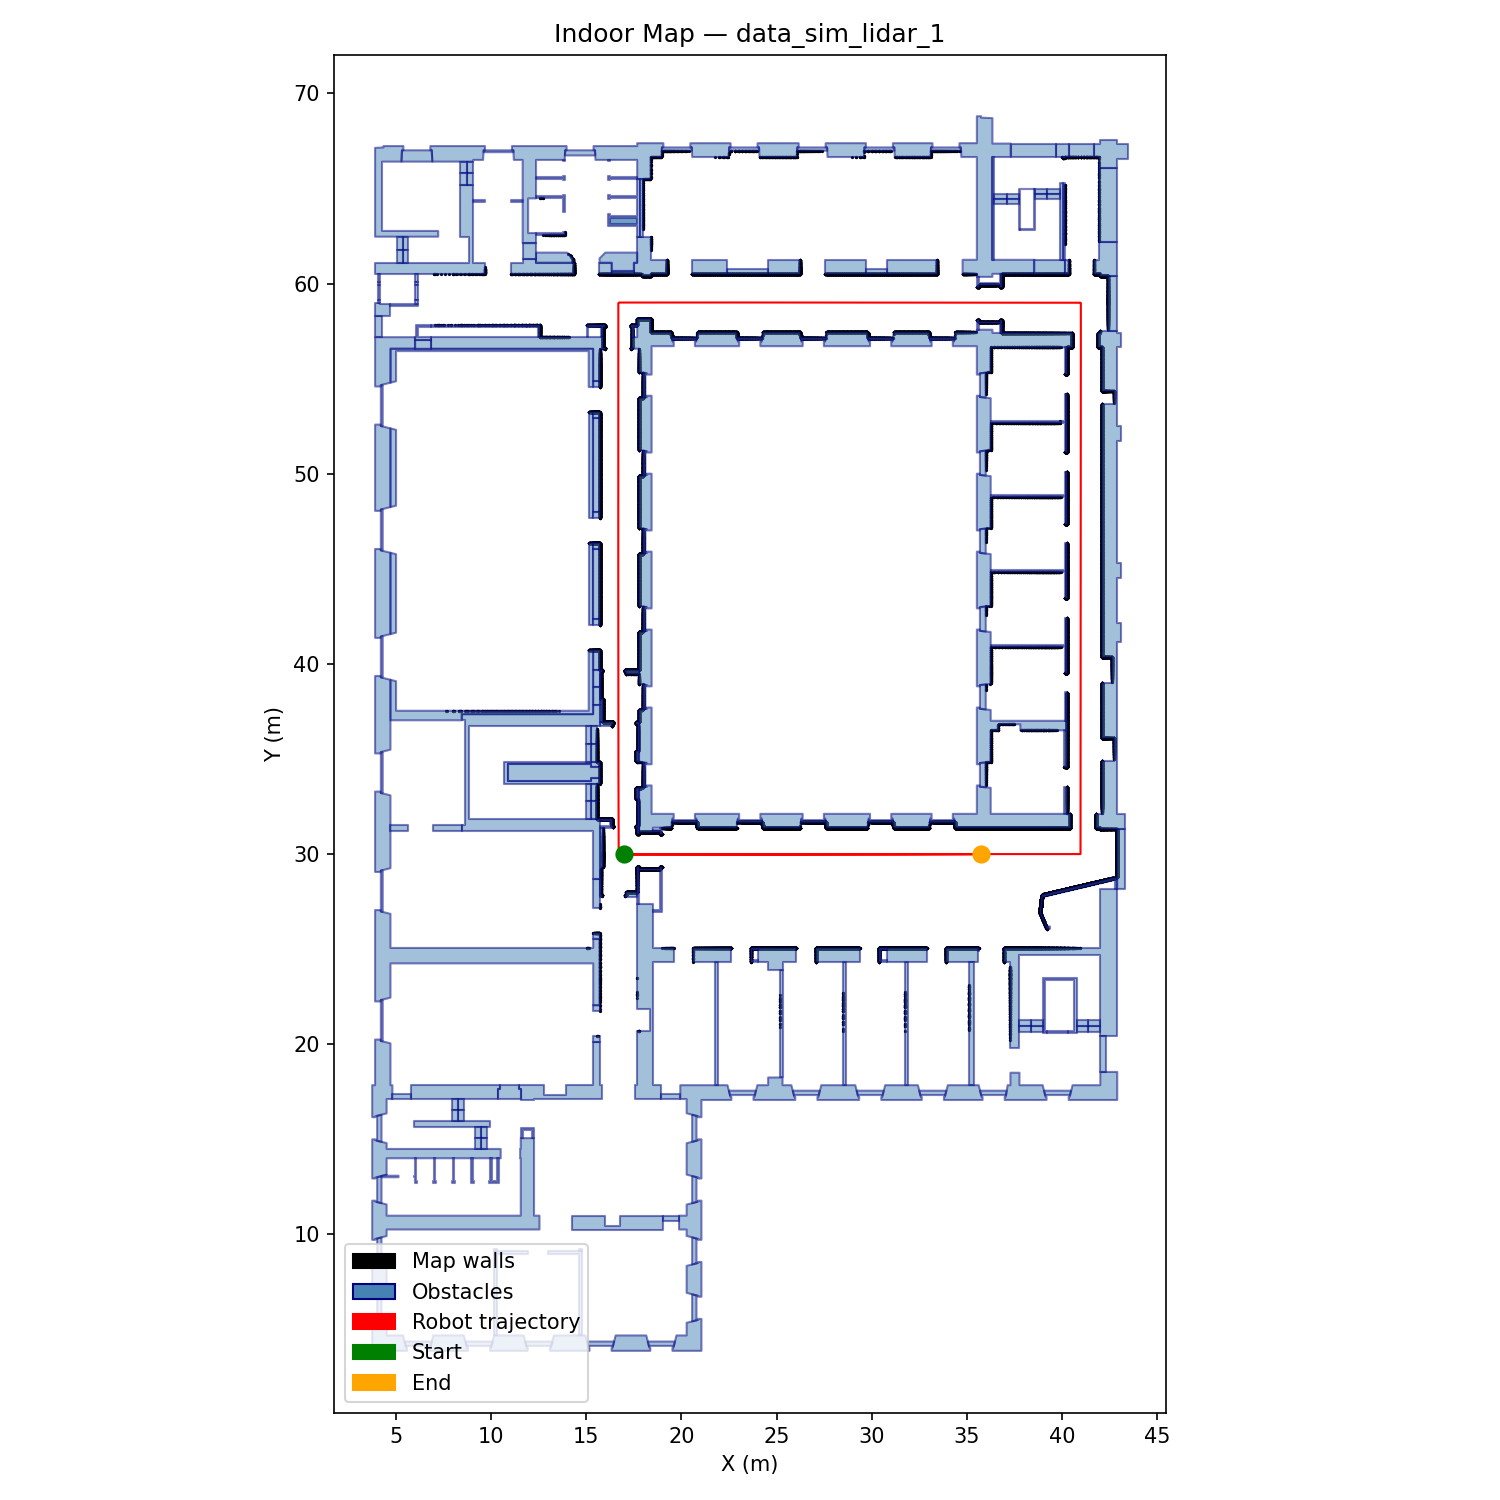
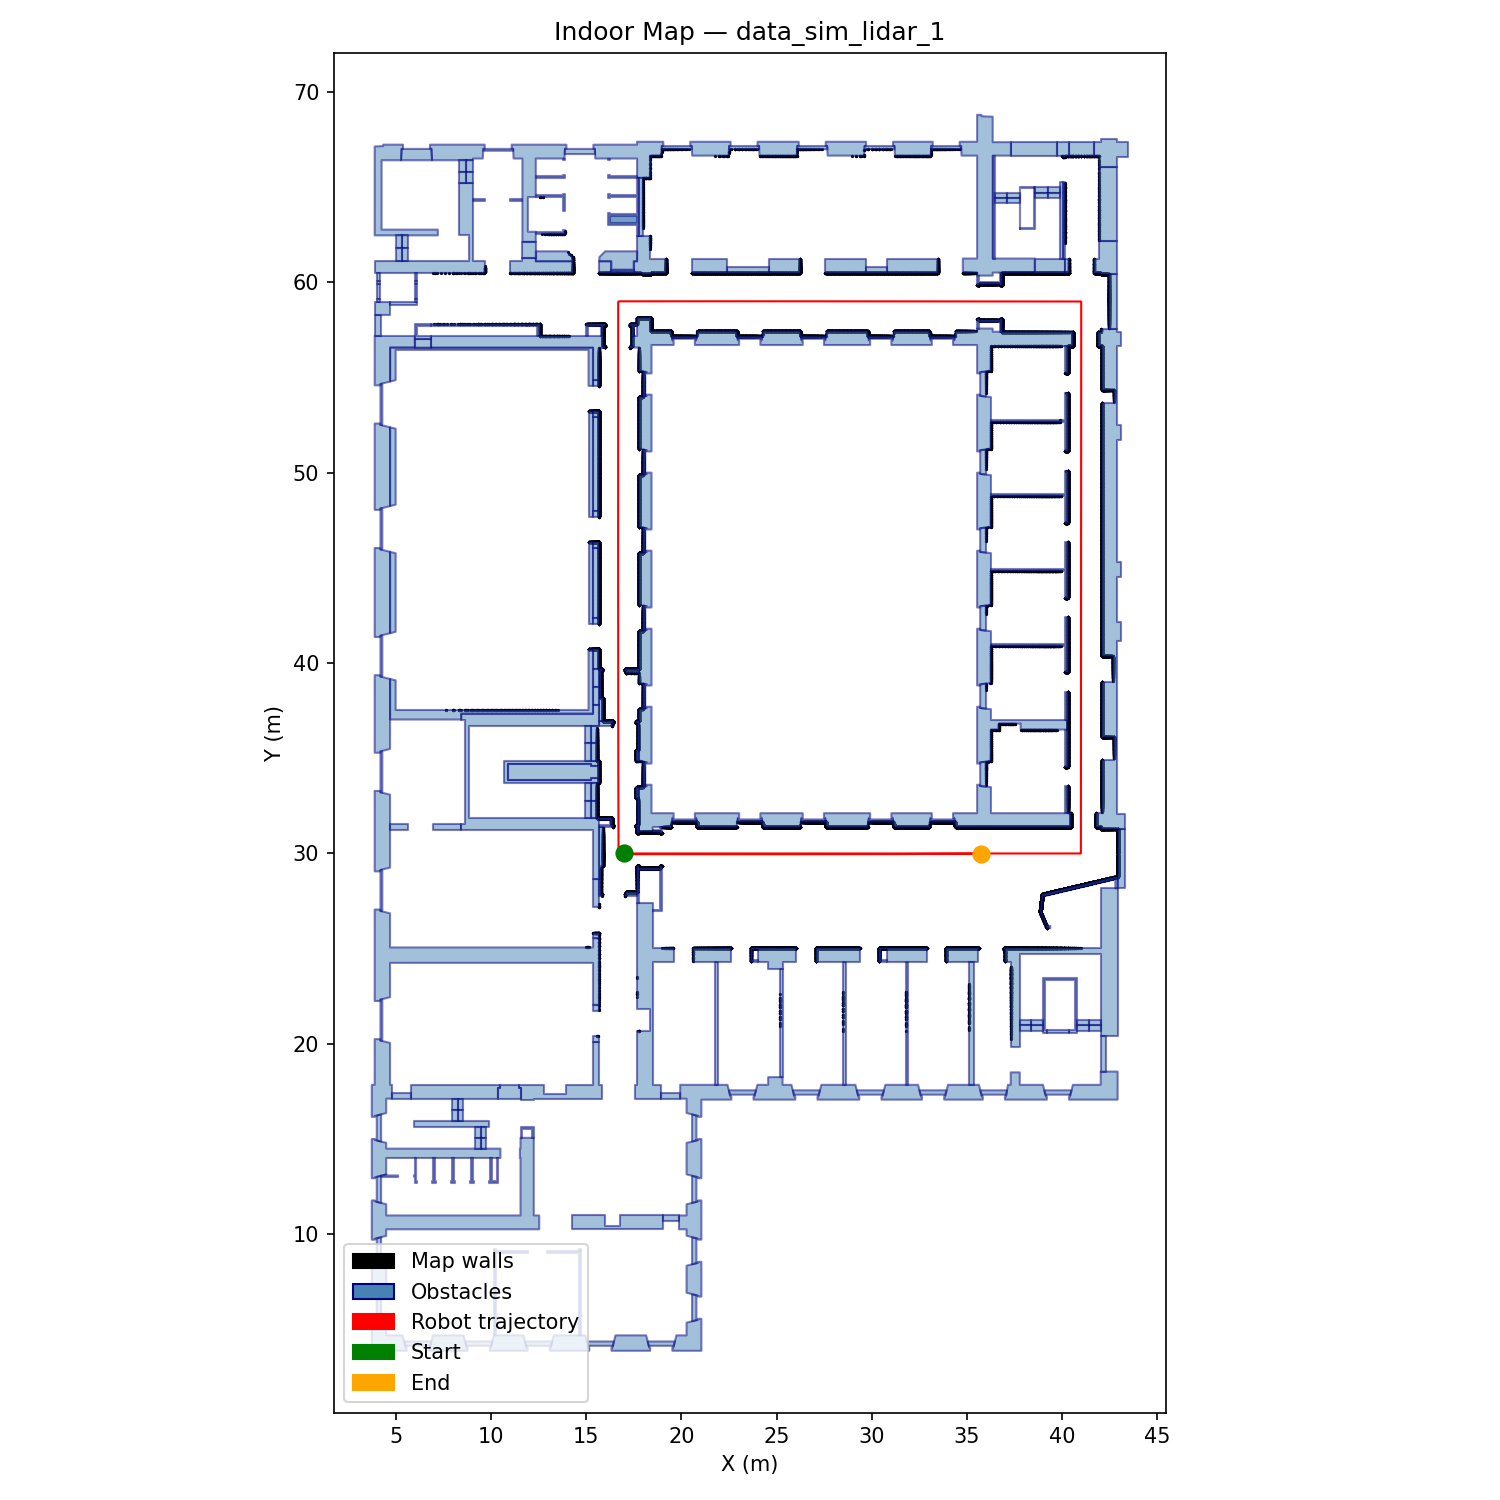
random corrdor width

diff --git a/legnav/core/jax_scenarios.py b/legnav/core/jax_scenarios.py
@@ -182,10 +182,11 @@ def generate_scenario(key: jnp.ndarray, max_goal_dist: float,
     # If the caller pinned a specific scenario (>= 0), use it; else use the draw.
     idx = jnp.where(scenario_idx < 0, sampled_idx, jnp.int32(scenario_idx))
 
-    # Redirect visual-only scenarios (13-15, max_v=0) to scenario 0 when sampled
-    # randomly so they never appear as training episodes.  Pinned evals are unaffected.
-    visual_scen = ((idx == 13) | (idx == 14) | (idx == 15)) & (jnp.int32(scenario_idx) < 0)
-    idx = jnp.where(visual_scen, jnp.int32(0), idx)
+    # Redirect visual-only scenarios (13-15, max_v=0) and the static NPZ map
+    # scenario (16) to scenario 0 when sampled randomly so they never appear
+    # as training episodes.  Pinned evals are unaffected.
+    non_train_scen = ((idx == 13) | (idx == 14) | (idx == 15) | (idx == 16)) & (jnp.int32(scenario_idx) < 0)
+    idx = jnp.where(non_train_scen, jnp.int32(0), idx)
 
     # Scenarios where enforcing a large minimum initial goal distance is
     # impractical: intersections and multi-waypoint test scenarios.
@@ -369,23 +370,34 @@ def generate_scenario(key: jnp.ndarray, max_goal_dist: float,
     def _parallel_scen(k):
         N_PRL = 5
         (k1, k_gx, k_rx, k_x_guess, k_y_guess, k5,
-         k_mode, k_obs_x, k_obs_y) = jax.random.split(k, 9)
+         k_mode, k_obs_x, k_obs_y, k_w) = jax.random.split(k, 10)
 
-        corridor_width = 4.0
+        # Corridor gap randomized per episode: 1.2 m (barely passable) → 4.0 m.
+        corridor_width = jax.random.uniform(k_w, minval=1.2, maxval=4.0)
         wall_width = (ROOM_W - corridor_width) / 2.0
+        cx0  = ROOM_W / 2.0            # corridor centre line
+        half = corridor_width / 2.0
 
         obs_boxes = jnp.zeros((NUM_OBS_BOX, 8))
         obs_boxes = obs_boxes.at[0].set(_aabb_box(wall_width / 2.0, ROOM_H / 2.0, wall_width / 2.0, ROOM_H / 2.0))
         obs_boxes = obs_boxes.at[1].set(_aabb_box(ROOM_W - wall_width / 2.0, ROOM_H / 2.0, wall_width / 2.0, ROOM_H / 2.0))
-        rx, ry, rtheta = jax.random.uniform(k_rx, minval=4.8, maxval=7.2), 0.4, jnp.pi / 2.0
-        gx = jax.random.uniform(k_gx, minval=4.7, maxval=7.3)
+        # Spawn spans shrink with the gap (collapse to the centre line when narrow).
+        r_span = jnp.maximum(half - 0.8, 0.0)
+        g_span = jnp.maximum(half - 0.7, 0.0)
+        rx, ry, rtheta = cx0 + jax.random.uniform(k_rx, minval=-1.0, maxval=1.0) * r_span, 0.4, jnp.pi / 2.0
+        gx = cx0 + jax.random.uniform(k_gx, minval=-1.0, maxval=1.0) * g_span
         gy = ROOM_H - 0.6
         max_v = jax.random.uniform(k1, minval=0.5, maxval=1.5)
 
         # ── Humans variant: 5 pedestrians walking down the corridor ───────
         def _humans_branch(_):
-            px_walls = jnp.array([4.5, 7.5])
-            px_rand_guesses = jax.random.uniform(k_x_guess, (N_GUESSES, N_PRL - 2), minval=4.8, maxval=7.2)
+            # Wall-huggers stay 0.5 m off the walls; random walkers keep a 0.8 m
+            # margin. Both collapse toward the centre line as the gap narrows,
+            # so every human is always inside the corridor gap.
+            wall_off = jnp.maximum(half - 0.5, 0.0)
+            x_span   = jnp.maximum(half - 0.8, 0.0)
+            px_walls = jnp.array([cx0 - wall_off, cx0 + wall_off])
+            px_rand_guesses = cx0 + jax.random.uniform(k_x_guess, (N_GUESSES, N_PRL - 2), minval=-1.0, maxval=1.0) * x_span
             py_guesses = jax.random.uniform(k_y_guess, (N_GUESSES, N_PRL), minval=ry + 3.0, maxval=ROOM_H - 0.2)
 
             def check_parallel_safe(px_rand_guess, py_guess):
@@ -402,7 +414,7 @@ def generate_scenario(key: jnp.ndarray, max_goal_dist: float,
             py = py_guesses[best_idx]
 
             g1x_walls = px_walls
-            g1x_random = jax.random.uniform(k5, (N_PRL - 2,), minval=4.8, maxval=7.2)
+            g1x_random = cx0 + jax.random.uniform(k5, (N_PRL - 2,), minval=-1.0, maxval=1.0) * x_span
             g1x = jnp.concatenate([g1x_walls, g1x_random])
             g1y = jnp.full((N_PRL,), 1.0)
 
@@ -429,7 +441,10 @@ def generate_scenario(key: jnp.ndarray, max_goal_dist: float,
             i  = jnp.arange(N_OBS, dtype=jnp.float32)
             cy = y_lo + (i + 0.5) * band + jax.random.uniform(k_obs_y, (N_OBS,),
                                                               minval=-0.3, maxval=0.3)
-            x_base = jnp.where(i % 2 == 0, 5.3, 6.7)   # corridor centre is x=6
+            # Slalom amplitude scales with the gap (±0.7 at 4 m width, centred
+            # when narrow); jitter included, obstacles stay ≥1 m off the walls.
+            lateral = jnp.maximum(half - 1.3, 0.0)
+            x_base = jnp.where(i % 2 == 0, cx0 - lateral, cx0 + lateral)
             cx = x_base + jax.random.uniform(k_obs_x, (N_OBS,), minval=-0.3, maxval=0.3)
 
             # Even indices → circles, odd indices → rectangles.
@@ -445,7 +460,9 @@ def generate_scenario(key: jnp.ndarray, max_goal_dist: float,
             people = _make_dummies(NUM_PEOPLE)
             return obs_circles, obs_boxes_out, people
 
-        use_static = jax.random.bernoulli(k_mode, 0.5)
+        # Static slalom only when the gap is wide enough to pass a centred
+        # obstacle (r≤0.4 + robot diameter); narrow corridors use humans only.
+        use_static = jax.random.bernoulli(k_mode, 0.5) & (corridor_width >= 2.5)
         obs_circles, obs_boxes, people = jax.lax.cond(
             use_static, _static_branch, _humans_branch, operand=None)
         return rx, ry, rtheta, gx, gy, max_v, obs_circles, obs_boxes, people
@@ -1226,10 +1243,15 @@ def generate_scenario(key: jnp.ndarray, max_goal_dist: float,
     width = jnp.maximum(maxx - minx, 0.0)
     around_x = minx + jax.random.uniform(gkx, (N_GUESSES,)) * width
     # For parallel corridor scenarios prefer sampling x inside the corridor
-    # bounds (px between 4.5 and 7.5). This prevents candidate goals from
-    # jumping outside the corridor when the original goal gets rejected.
-    corridor_min = jnp.float32(4.5) + GOAL_CLEARANCE
-    corridor_max = jnp.float32(7.5) - GOAL_CLEARANCE
+    # bounds. The gap is randomized per episode, so derive it from the wall
+    # boxes (box 0 = left wall, box 1 = right wall) instead of hardcoding it.
+    # Clamp both bounds to the centre line so a gap narrower than
+    # 2*GOAL_CLEARANCE degenerates to centred candidates instead of inverting.
+    corridor_left  = jnp.max(obs_boxes[0, 0::2])
+    corridor_right = jnp.min(obs_boxes[1, 0::2])
+    corridor_mid   = 0.5 * (corridor_left + corridor_right)
+    corridor_min = jnp.minimum(corridor_left + GOAL_CLEARANCE, corridor_mid)
+    corridor_max = jnp.maximum(corridor_right - GOAL_CLEARANCE, corridor_mid)
     corridor_x = jax.random.uniform(gkx, (N_GUESSES,), minval=corridor_min, maxval=corridor_max)
     g_guesses_x = jnp.where(jnp.int32(idx) == 4, around_x,
                             jnp.where(jnp.int32(idx) == 1, corridor_x, rand_x))

diff --git a/legnav/map/preprocess_map.py b/legnav/map/preprocess_map.py
@@ -232,6 +232,20 @@ def main():
         tm_local_x -= shift_x
         tm_local_y -= shift_y
 
+    # ── Manual adjustment: widen the right corridor ───────────────────────────
+    # The large right-wall block (3 stacked AABBs at x≈[38.0, 39.6], y≈[24, 57])
+    # leaves only ~1.5 m between itself and the shelf-row ends (x≈36.5).
+    # Pull its left edge right so the corridor is ~2.3 m wide.
+    RW_OLD_LEFT, RW_NEW_LEFT = 38.04, 38.80
+    bx = obb_arr[:, [0, 2, 4, 6]]
+    by = obb_arr[:, [1, 3, 5, 7]]
+    sel = (np.abs(bx.min(1) - RW_OLD_LEFT) < 0.1) & (by.min(1) > 20.0) & (by.max(1) < 57.0)
+    for r in np.where(sel)[0]:
+        left = obb_arr[r, [0, 2, 4, 6]].min()
+        for k in (0, 2, 4, 6):
+            if abs(obb_arr[r, k] - left) < 1e-6:
+                obb_arr[r, k] = RW_NEW_LEFT
+
     room_w = float(np.ceil(max(obb_x.max(), tm_local_x.max()) + ROOM_PADDING))
     room_h = float(np.ceil(max(obb_y.max(), tm_local_y.max()) + ROOM_PADDING))
 

diff --git a/legnav/algorithms/jax_ppo.py b/legnav/algorithms/jax_ppo.py
@@ -69,7 +69,8 @@ _ENT_ANCHORS  = np.array([0.02, 0.02, 0.018, 0.015, 0.012, 0.01, 0.008, 0.006, 0
 # Ghost probability ramps slower to avoid passive-collision feedback loop.
 #   20%→Parallel  35%→Perpend  50%→Circular  60%→Bottleneck+Intersect  70%→ALL(Groups)
 #   82%→harder test-style scenarios (7-12)   90%→floor CCW tour (17)
-# Visual-only scenarios 13-15 are automatically redirected to 0 inside generate_scenario.
+# Visual-only scenarios 13-15 and the static NPZ map (16) are automatically
+# redirected to 0 inside generate_scenario.
 _SCEN_ANCHORS = np.array([0,    1,    2,    3,    5,    6,    12,   17,    17])
 
 def get_continuous_curriculum(suc_pct: float):

diff --git a/legnav/core/jax_env_multi.py b/legnav/core/jax_env_multi.py
@@ -49,7 +49,7 @@ _STEP_PEN      =  -0.075   # Drastically increased. Standing still is no longer 
 
 # Smoothness & Rotation penalties (Lowered to unblock exploration)
 _SMOOTH_WEIGHT       =   0.08    # Reduced to stop paralyzing the agent's steering
-_ROT_WEIGHT          =   0.30    # Penalizes angular velocity magnitude; suppresses straight-corridor oscillation
+_ROT_WEIGHT          =   0.10    # Penalizes angular velocity magnitude; suppresses straight-corridor oscillation
 _HEADING_ALIGN_COEF  =   0.12    # Bonus for facing the goal while moving; breaks sinusoidal symmetry
 
 _COMFORT_DIST  = 1.2   # m — personal space boundary
